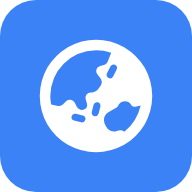
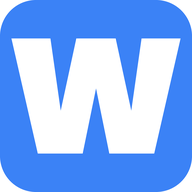
feat(图标): 改为 W 字母标记，并补齐小尺寸
原图标为蓝底加 fa-globe-asia 地球字形，按 192px 设计且从未在 favicon
尺寸下检查。浏览器标签页实际显示 16–32px，大陆轮廓缩至该尺寸即糊成
噪点。仓库亦无小尺寸图标，index.html 的 rel="icon" 直接指向 192px 文件
由浏览器缩放，这是糊掉的直接原因。

改为用仓库已有的 poppins-latin-900-normal.woff2 渲染 W —— 与登录页
WanderSync 字标同一字体，Poppins Black 的 W 几何感强，小尺寸辨识度高。
白字，底色沿用 #3b82f6。

- 新增 icons/icon-32.png 与多尺寸 favicon.ico（16/32/48）
- 替换 icon-180（纯方形无透明，iOS 会将透明像素渲染为黑色并自加圆角
  遮罩）、icon-192、icon-512（圆角方形）
- index.html 增加指向 32px 的 rel="icon"，避免浏览器缩放大图
- sw.js 的 SW_VERSION 提至 v2

版本号必须同时提升：sw.js 中同源图片走纯缓存优先分支且不做后台重新
验证，仅替换图标文件的话，已安装过的用户将永远看不到新图标。

验证：独立从字体重新提取轮廓并渲染，与产物逐像素比对，四个尺寸差异
均为 0；逐列白像素剖面确认三笔均衡（180px 下为 92/82，与左侧两笔
相当）；圆角变体以遮罩求交确认字形未被裁切；四个 PNG 与 ico 内嵌帧
均为 RGB 无 alpha 通道；浏览器实测 v1→v2 升级后旧缓存被删除、新图标
生效、32px 文件被实际请求。

首次提交的版本存在缺陷：点列表系手工抄写，遗漏了 closePath 前的最后
一个 lineTo(831,708)，即右腿平顶的内角点，导致边界从右侧凹口直连外角、
平顶被切成斜刃，右笔损失约 40% 覆盖。经逐列像素剖面发现后退回重做，
现已改为每次运行从字体实时提取并加断言校验，杜绝同类抄写错误复发。

未验证：无 iOS 与 Windows 运行环境，真机主屏遮罩与任务栏呈现未实测。

Claude-Session: https://claude.ai/code/session_017Fu49RGou36PF4TXxLU6qv

diff --git a/index.html b/index.html
@@ -24,6 +24,7 @@
     <meta name="apple-mobile-web-app-status-bar-style" content="black-translucent">
     <meta name="apple-mobile-web-app-title" content="WanderSync">
     <link rel="apple-touch-icon" href="./icons/icon-180.png">
+    <link rel="icon" href="./icons/icon-32.png" sizes="32x32" type="image/png">
     <link rel="icon" href="./icons/icon-192.png" sizes="192x192" type="image/png">
     <style>
         :root {

diff --git a/sw.js b/sw.js
@@ -18,7 +18,7 @@
  *     风险，用不着抢着立刻接管。
  */
 
-const SW_VERSION = 'v1';
+const SW_VERSION = 'v2';
 const CACHE_NAME = `wandersync-shell-${SW_VERSION}`;
 
 // 所有路径都用相对路径：GitHub Pages 项目页跑在
